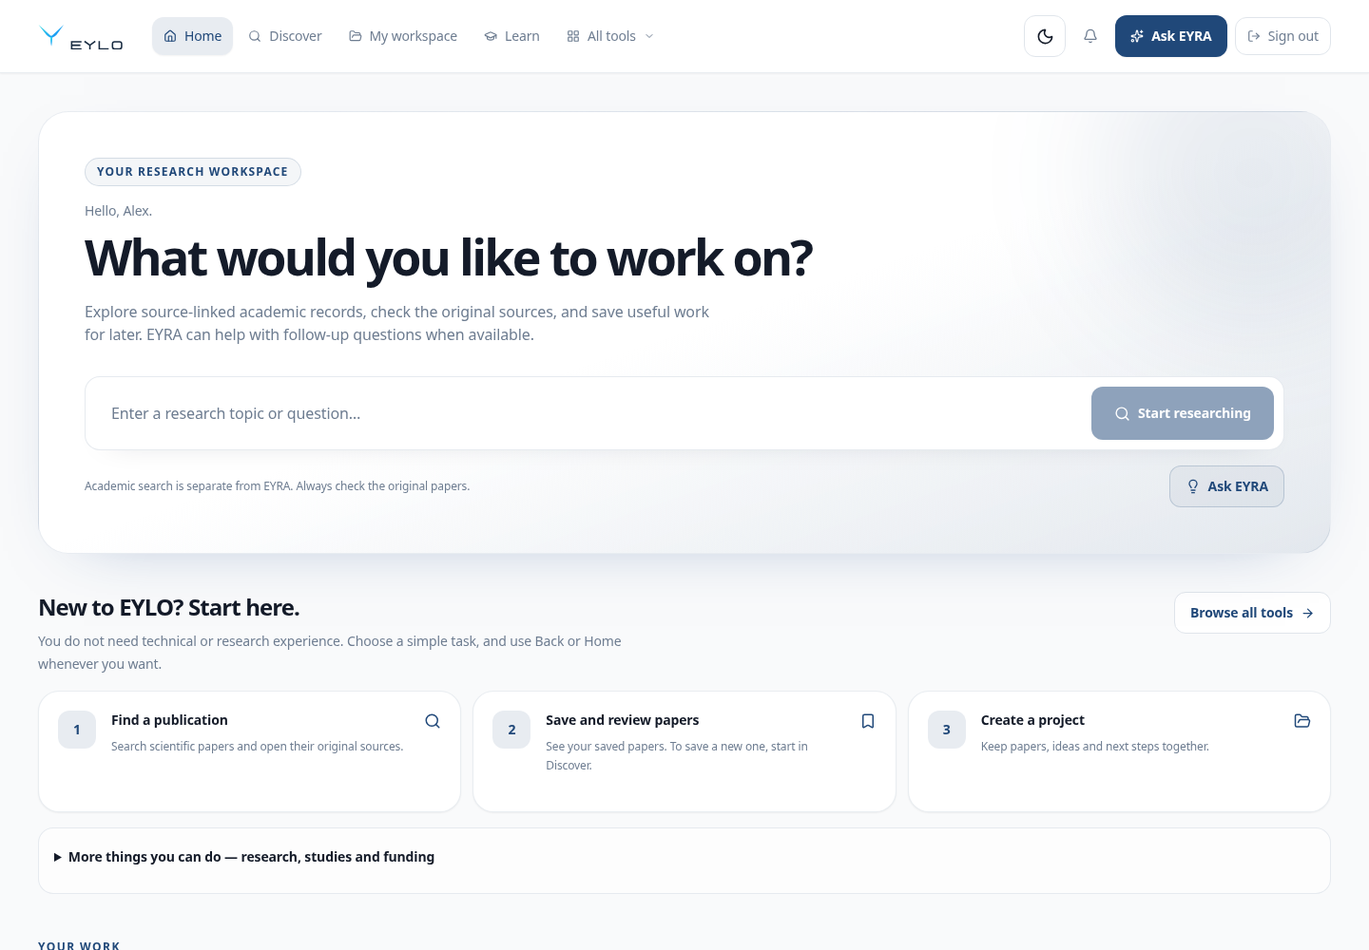
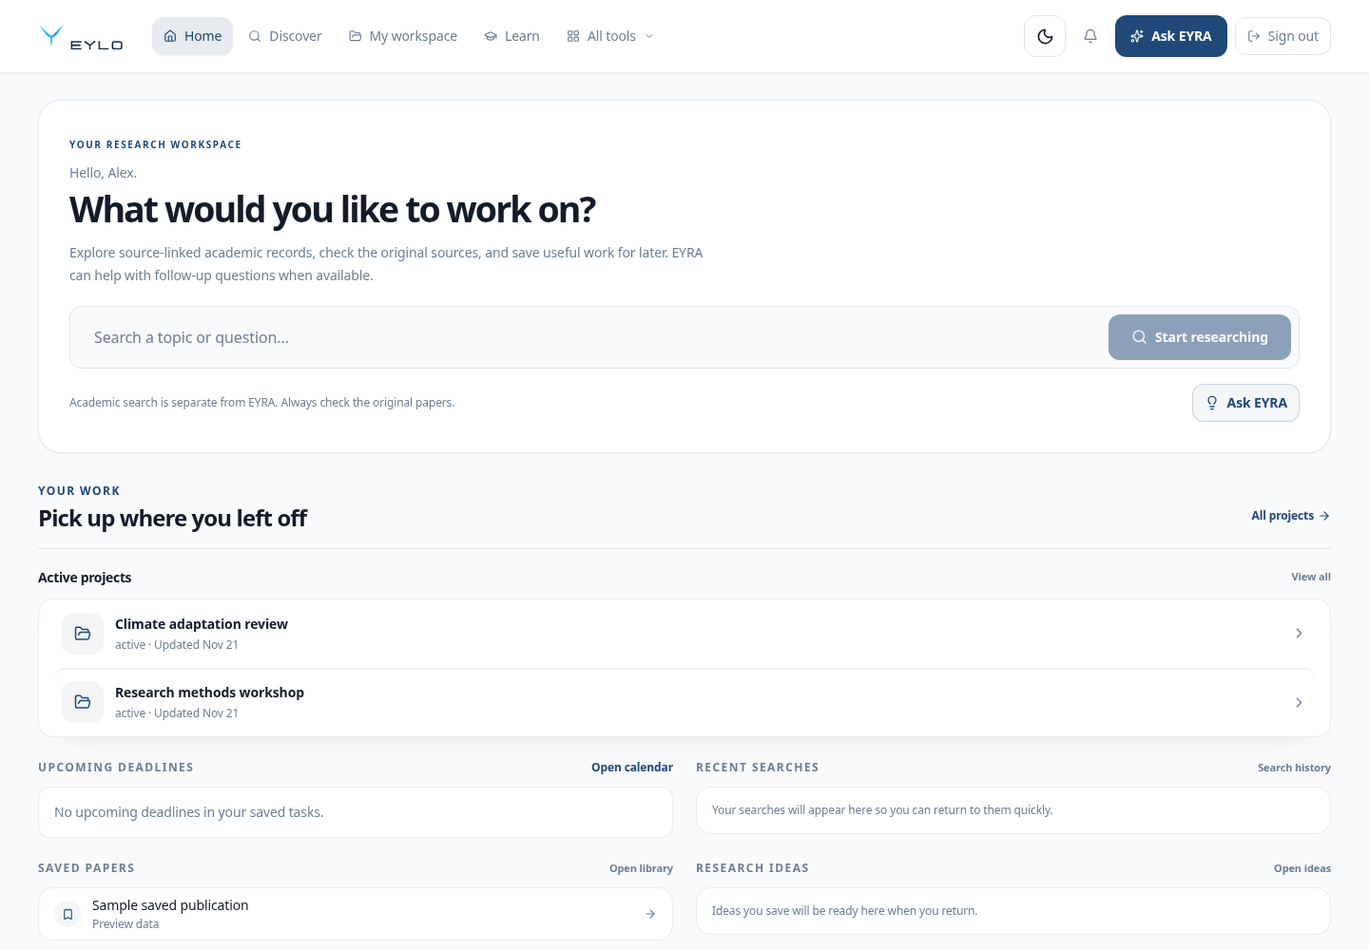
Refine Home hierarchy and simplify EYRA conversation layout

diff --git a/src/components/dashboard/EyraHome.jsx b/src/components/dashboard/EyraHome.jsx
@@ -82,70 +82,29 @@ export default function EyraHome({ onSearch }) {
 
   return (
     <div className="eylo-home min-h-[calc(100vh-4.5rem)] bg-background text-foreground">
-      <div className="mx-auto w-full max-w-[1440px] px-4 pb-24 pt-6 sm:px-8 sm:pt-10 lg:px-10">
-        <section aria-labelledby="home-title" className="relative isolate overflow-hidden rounded-[32px] border border-primary/10 bg-gradient-to-br from-card via-card to-primary/10 p-6 shadow-[0_20px_70px_-48px_rgba(31,71,139,0.5)] sm:p-9 lg:p-12">
-          <div className="pointer-events-none absolute -right-20 -top-24 -z-10 h-80 w-80 rounded-full bg-primary/10 blur-3xl" aria-hidden="true" />
-          <p className="mb-4 inline-flex items-center rounded-full border border-primary/15 bg-primary/5 px-3 py-1.5 text-xs font-bold uppercase tracking-[0.1em] text-primary">Your research workspace</p>
+      <div className="mx-auto w-full max-w-[1440px] px-4 pb-16 pt-5 sm:px-8 sm:pt-7 lg:px-10">
+        <section aria-labelledby="home-title" className="relative isolate overflow-hidden rounded-[24px] border border-border/80 bg-card p-5 shadow-sm sm:p-7 lg:p-8">
+          <p className="mb-3 inline-flex items-center text-[10px] font-bold uppercase tracking-[0.16em] text-primary">Your research workspace</p>
           <p className="text-sm font-medium text-muted-foreground">{greeting.greeting}</p>
-          <h1 id="home-title" className="mt-2 max-w-4xl text-3xl font-bold tracking-tight sm:text-4xl lg:text-[3.25rem] lg:leading-[1.12]">What would you like to work on?</h1>
-          <p className="mt-4 max-w-2xl text-sm leading-7 text-muted-foreground sm:text-base">Explore source-linked academic records, check the original sources, and save useful work for later. EYRA can help with follow-up questions when available.</p>
-          <form onSubmit={event => { event.preventDefault(); if (homeQuery.trim()) onSearch(homeQuery.trim()); }} className="mt-8 flex flex-col gap-3 rounded-2xl border border-border/80 bg-card p-2.5 shadow-md shadow-primary/5 sm:flex-row sm:items-center">
+          <h1 id="home-title" className="mt-1.5 max-w-4xl text-[1.65rem] font-semibold leading-tight tracking-tight sm:text-3xl lg:text-[2.35rem]">What would you like to work on?</h1>
+          <p className="mt-3 max-w-2xl text-sm leading-6 text-muted-foreground">Explore source-linked academic records, check the original sources, and save useful work for later. EYRA can help with follow-up questions when available.</p>
+          <form onSubmit={event => { event.preventDefault(); if (homeQuery.trim()) onSearch(homeQuery.trim()); }} className="mt-5 flex flex-col gap-2 rounded-xl border border-border bg-background p-2 sm:flex-row sm:items-center">
             <label htmlFor="home-research-query" className="sr-only">Research topic or question</label>
             <input id="home-research-query" type="search" value={homeQuery} onChange={event => setHomeQuery(event.target.value)}
-              placeholder="Enter a research topic or question…" className="min-h-14 min-w-0 flex-1 rounded-xl border border-transparent bg-transparent px-4 text-base text-foreground placeholder:text-muted-foreground focus:border-primary/30 focus:outline-none" />
-            <button type="submit" disabled={!homeQuery.trim()} className="inline-flex min-h-14 items-center justify-center gap-2 rounded-xl bg-primary px-6 text-sm font-semibold text-primary-foreground shadow-sm transition-colors hover:bg-primary/90 focus-visible:outline focus-visible:outline-2 focus-visible:outline-offset-2 focus-visible:outline-primary disabled:opacity-50">
+              placeholder="Search a topic or question…" className="min-h-12 min-w-0 flex-1 rounded-lg border border-transparent bg-transparent px-4 text-base text-foreground placeholder:text-muted-foreground focus:border-primary/30 focus:outline-none" />
+            <button type="submit" disabled={!homeQuery.trim()} className="inline-flex min-h-12 items-center justify-center gap-2 rounded-lg bg-primary px-6 text-sm font-semibold text-primary-foreground shadow-sm transition-colors hover:bg-primary/90 focus-visible:outline focus-visible:outline-2 focus-visible:outline-offset-2 focus-visible:outline-primary disabled:opacity-50">
               <Search size={17} aria-hidden="true" /> Start researching
             </button>
           </form>
           <div className="mt-4 flex flex-wrap items-center justify-between gap-4">
             <p className="text-xs text-muted-foreground">Academic search is separate from EYRA. Always check the original papers.</p>
             <button type="button" disabled={!eyraReady} onClick={() => window.dispatchEvent(new Event('eylo:open-eyra'))}
-              className="inline-flex min-h-11 items-center gap-2 rounded-xl border border-primary/20 bg-primary/5 px-4 text-sm font-semibold text-primary transition-colors hover:bg-primary/10 focus-visible:outline focus-visible:outline-2 focus-visible:outline-primary disabled:opacity-50">
+              className="hidden min-h-10 items-center gap-2 rounded-lg border border-primary/20 bg-primary/5 px-3 text-sm font-semibold text-primary transition-colors hover:bg-primary/10 sm:inline-flex focus-visible:outline focus-visible:outline-2 focus-visible:outline-primary disabled:opacity-50">
               <Lightbulb size={16} aria-hidden="true" /> Ask EYRA
             </button>
           </div>
         </section>
-        <section aria-labelledby="start-here-title" className="mt-10">
-          <div className="mb-4 flex flex-wrap items-start justify-between gap-3">
-            <div>
-              <h2 id="start-here-title" className="text-xl font-bold tracking-tight text-foreground sm:text-2xl">New to EYLO? Start here.</h2>
-              <p className="mt-2 max-w-2xl text-sm leading-6 text-muted-foreground">
-                You do not need technical or research experience. Choose a simple task, and use Back or Home whenever you want.
-              </p>
-            </div>
-            <Link to="/tools" className="inline-flex min-h-11 items-center gap-2 rounded-xl border border-border bg-card px-4 text-sm font-semibold text-primary hover:bg-secondary">Browse all tools <ArrowRight size={15} aria-hidden="true" /></Link>
-          </div>
-          <nav aria-label="Common starting actions" className="grid gap-3 sm:grid-cols-2 lg:grid-cols-3">
-            {[
-              {step:'1', title:'Find a publication', help:'Search scientific papers and open their original sources.', href: '/search', Icon:Search},
-              {step:'2', title:'Save and review papers', help:'See your saved papers. To save a new one, start in Discover.', href: '/library', Icon:Bookmark},
-              {step:'3', title:'Create a project', help:'Keep papers, ideas and next steps together.', href: '/projects?new=1', Icon:FolderOpen},
-            ].map(({step,title,help,href,Icon}) => (
-              <Link key={href} to={href} className="group flex min-h-32 items-start gap-4 rounded-[22px] border border-border/70 bg-card p-5 shadow-sm transition-all hover:-translate-y-0.5 hover:border-primary/35 hover:shadow-md focus-visible:outline focus-visible:outline-2 focus-visible:outline-primary">
-                <span className="grid h-10 w-10 shrink-0 place-items-center rounded-xl bg-primary/10 text-sm font-bold text-primary" aria-hidden="true">{step}</span>
-                <span className="min-w-0 flex-1"><span className="block text-sm font-bold text-foreground">{title}</span><span className="mt-2 block text-xs leading-5 text-muted-foreground">{help}</span></span>
-                <Icon size={18} className="mt-0.5 shrink-0 text-primary" aria-hidden="true" />
-              </Link>
-            ))}
-          </nav>
-          <details className="mt-4 rounded-2xl border border-border/80 bg-card/60 px-4 py-3">
-            <summary className="min-h-11 cursor-pointer py-2 text-sm font-semibold text-foreground focus-visible:outline focus-visible:outline-2 focus-visible:outline-primary">More things you can do — research, studies and funding</summary>
-            <nav aria-label="More starting actions" className="mt-3 grid gap-3 border-t border-border pt-4 sm:grid-cols-2">
-              {[
-                {title:'Start a research journey', help:'Follow a question from sources to a review or thesis.', href: '/research-journey', Icon:BookOpen},
-                {title:'Plan my studies', help:'Organize sessions, courses and exams.', href: '/study-planner', Icon:BookOpen},
-                {title:'Find research funding', help:'Browse funding calls and eligibility.', href: '/opportunities', Icon:Zap},
-                {title:'View all tools', help:'See every other feature whenever you need it.', href: '/tools', Icon:Search},
-              ].map(({title,help,href,Icon}) => (
-                <Link key={href} to={href} className="group flex min-h-20 items-start gap-3 rounded-xl border border-border bg-card p-4 hover:border-primary/40 hover:bg-secondary/30">
-                  <Icon size={18} className="mt-0.5 shrink-0 text-primary" aria-hidden="true" />
-                  <span className="min-w-0 flex-1"><span className="block text-sm font-semibold text-foreground">{title}</span><span className="mt-1 block text-xs leading-5 text-muted-foreground">{help}</span></span>
-                  <ArrowRight size={15} className="mt-1 shrink-0 text-muted-foreground" aria-hidden="true" />
-                </Link>
-              ))}
-            </nav>
-          </details>
-        </section>
+
 
         {loaded && workspaceWarnings.length > 0 && (
           <div role="status" className="mt-5 flex flex-wrap items-center justify-between gap-3 rounded-xl border border-border bg-card px-4 py-3 text-sm text-foreground">
@@ -154,12 +113,12 @@ export default function EyraHome({ onSearch }) {
           </div>
         )}
 
-        <div className="mt-12">
+        <div className="mt-7 sm:mt-8">
           <section aria-labelledby="continue-heading">
             <div className="mb-5 flex items-end justify-between gap-4 border-b border-border pb-4">
               <div>
                 <p className="text-xs font-bold uppercase tracking-[0.12em] text-primary">Your work</p>
-                <h2 id="continue-heading" className="mt-1 text-2xl font-bold tracking-tight text-foreground sm:text-3xl">Pick up where you left off</h2>
+                <h2 id="continue-heading" className="mt-1 text-xl font-semibold tracking-tight text-foreground sm:text-2xl">Pick up where you left off</h2>
               </div>
               <Link to="/projects" className="inline-flex min-h-9 items-center gap-1 text-xs font-semibold text-primary hover:underline">All projects <ArrowRight size={14} aria-hidden="true" /></Link>
             </div>
@@ -283,6 +242,48 @@ export default function EyraHome({ onSearch }) {
 
 
         </div>
+
+        <section aria-labelledby="start-here-title" className="mt-9 border-t border-border/70 pt-7">
+          <div className="mb-4 flex flex-wrap items-start justify-between gap-3">
+            <div>
+              <h2 id="start-here-title" className="text-lg font-semibold tracking-tight text-foreground sm:text-xl">New to EYLO? Start here.</h2>
+              <p className="mt-2 max-w-2xl text-sm leading-6 text-muted-foreground">
+                You do not need technical or research experience. Choose a simple task, and use Back or Home whenever you want.
+              </p>
+            </div>
+            <Link to="/tools" className="inline-flex min-h-11 items-center gap-2 rounded-xl border border-border bg-card px-4 text-sm font-semibold text-primary hover:bg-secondary">Browse all tools <ArrowRight size={15} aria-hidden="true" /></Link>
+          </div>
+          <nav aria-label="Common starting actions" className="grid gap-3 sm:grid-cols-2 lg:grid-cols-3">
+            {[
+              {step:'1', title:'Find a publication', help:'Search scientific papers and open their original sources.', href: '/search', Icon:Search},
+              {step:'2', title:'Save and review papers', help:'See your saved papers. To save a new one, start in Discover.', href: '/library', Icon:Bookmark},
+              {step:'3', title:'Create a project', help:'Keep papers, ideas and next steps together.', href: '/projects?new=1', Icon:FolderOpen},
+            ].map(({step,title,help,href,Icon}) => (
+              <Link key={href} to={href} className="group flex min-h-24 items-start gap-3 rounded-2xl border border-border/70 bg-card p-4 shadow-sm transition-all hover:-translate-y-0.5 hover:border-primary/35 hover:shadow-md focus-visible:outline focus-visible:outline-2 focus-visible:outline-primary">
+                <span className="grid h-10 w-10 shrink-0 place-items-center rounded-xl bg-primary/10 text-sm font-bold text-primary" aria-hidden="true">{step}</span>
+                <span className="min-w-0 flex-1"><span className="block text-sm font-bold text-foreground">{title}</span><span className="mt-2 block text-xs leading-5 text-muted-foreground">{help}</span></span>
+                <Icon size={18} className="mt-0.5 shrink-0 text-primary" aria-hidden="true" />
+              </Link>
+            ))}
+          </nav>
+          <details className="mt-4 rounded-2xl border border-border/80 bg-card/60 px-4 py-3">
+            <summary className="min-h-11 cursor-pointer py-2 text-sm font-semibold text-foreground focus-visible:outline focus-visible:outline-2 focus-visible:outline-primary">More things you can do — research, studies and funding</summary>
+            <nav aria-label="More starting actions" className="mt-3 grid gap-3 border-t border-border pt-4 sm:grid-cols-2">
+              {[
+                {title:'Start a research journey', help:'Follow a question from sources to a review or thesis.', href: '/research-journey', Icon:BookOpen},
+                {title:'Plan my studies', help:'Organize sessions, courses and exams.', href: '/study-planner', Icon:BookOpen},
+                {title:'Find research funding', help:'Browse funding calls and eligibility.', href: '/opportunities', Icon:Zap},
+                {title:'View all tools', help:'See every other feature whenever you need it.', href: '/tools', Icon:Search},
+              ].map(({title,help,href,Icon}) => (
+                <Link key={href} to={href} className="group flex min-h-20 items-start gap-3 rounded-xl border border-border bg-card p-4 hover:border-primary/40 hover:bg-secondary/30">
+                  <Icon size={18} className="mt-0.5 shrink-0 text-primary" aria-hidden="true" />
+                  <span className="min-w-0 flex-1"><span className="block text-sm font-semibold text-foreground">{title}</span><span className="mt-1 block text-xs leading-5 text-muted-foreground">{help}</span></span>
+                  <ArrowRight size={15} className="mt-1 shrink-0 text-muted-foreground" aria-hidden="true" />
+                </Link>
+              ))}
+            </nav>
+          </details>
+        </section>
       </div>
     </div>
   );

diff --git a/src/components/eyra/EyraCommandCenter.jsx b/src/components/eyra/EyraCommandCenter.jsx
@@ -869,7 +869,7 @@ The saved record was returned by the server. Check the workspace for the final r
               <span className="hidden rounded-2xl bg-gradient-to-br from-indigo-500/10 via-card to-cyan-400/10 px-2 py-1 ring-1 ring-primary/10 sm:block"><BrandLogo brand="eyra" size="compact" /></span>
               <span className="sm:hidden"><EyraOrb className="h-10 w-10 shadow-sm shadow-primary/20" /></span>
               <div className="min-w-0">
-                <h2 id="eyra-dialog-title" className="text-base font-bold tracking-tight text-foreground sm:text-lg">Your research copilot</h2>
+                <h2 id="eyra-dialog-title" className="truncate text-sm font-semibold tracking-tight text-foreground sm:text-lg">Your research copilot</h2>
                 <p className="mt-0.5 truncate text-[11px] font-medium text-muted-foreground sm:text-xs">
                   {contextStatus === 'ready' ? 'Workspace context available' : contextStatus === 'loading' ? 'Preparing workspace context…' : 'Sources are linked when retrieved'}
                 </p>
@@ -893,17 +893,17 @@ The saved record was returned by the server. Check the workspace for the final r
           <EyraModeSelector activeMode={activeMode} onChange={setActiveMode} disabled={loading} />
 
           {/* Messages */}
-          <div ref={conversationScrollRef} className="relative z-10 min-h-0 flex-1 overflow-y-auto overscroll-contain bg-gradient-to-b from-background via-card/30 to-background px-4 py-6 sm:px-8 sm:py-8" aria-label="EYRA conversation">
+          <div ref={conversationScrollRef} className="relative z-10 min-h-0 flex-1 overflow-y-auto overscroll-contain bg-background px-4 py-5 sm:px-8 sm:py-7" aria-label="EYRA conversation">
             <div className={`mx-auto flex min-h-full w-full max-w-3xl flex-col gap-5 ${messages.length === 1 ? 'justify-center' : ''}`}>
               {messages.map((msg, index) => msg.welcome ? (messages.length === 1 ? (
-                <section key={`${msg.timestamp}-${index}`} aria-label="Start a conversation with EYRA" className="relative mx-auto w-full max-w-[740px] overflow-hidden rounded-[28px] border border-primary/10 bg-gradient-to-br from-card via-card to-primary/5 p-6 shadow-[0_24px_70px_-55px_rgba(67,89,200,0.55)] sm:p-9">
-                  <div className="mb-6 inline-flex h-14 w-14 items-center justify-center rounded-[20px] border border-primary/20 bg-gradient-to-br from-indigo-500/15 via-violet-400/10 to-cyan-400/15 text-2xl font-bold text-primary shadow-md shadow-primary/10" aria-hidden="true">✦</div>
+                <section key={`${msg.timestamp}-${index}`} aria-label="Start a conversation with EYRA" className="relative mx-auto w-full max-w-[740px] px-1 py-3 sm:px-5 sm:py-5">
+                  <div className="mb-4 inline-flex h-10 w-10 items-center justify-center rounded-xl bg-primary/10 text-xl font-bold text-primary" aria-hidden="true">✦</div>
                   <p className="text-[11px] font-bold uppercase tracking-[0.18em] text-primary">EYRA / RESEARCH INTELLIGENCE</p>
-                  <h3 className="mt-3 max-w-2xl text-2xl font-bold leading-snug tracking-tight text-foreground sm:text-3xl">
+                  <h3 className="mt-2 max-w-2xl text-2xl font-semibold leading-snug tracking-tight text-foreground sm:text-3xl">
                     Where should we begin?
                   </h3>
-                  <p className="mt-3 max-w-xl text-[15px] leading-7 text-muted-foreground">
-                    Explore published evidence, evaluate opportunities and develop ideas with clear source boundaries. Ask anything or choose a starting point.
+                  <p className="mt-3 max-w-xl text-sm leading-6 text-muted-foreground sm:text-[15px]">
+                    Work through a question, review your sources, or decide what to do next.
                   </p>
                   {messages.length === 1 && <EyraQuickCommands activeMode={activeMode} onSelect={prompt => void sendMessage(prompt)} disabled={loading} />}
                 </section>
@@ -922,7 +922,7 @@ The saved record was returned by the server. Check the workspace for the final r
           </div>
 
           {/* Composer stays visible; optional controls are accessible on demand. */}
-          <div className="relative z-10 shrink-0 border-t border-border/50 bg-card/90 px-3 pb-[max(0.75rem,env(safe-area-inset-bottom))] pt-3 backdrop-blur-xl sm:px-8 sm:py-5">
+          <div className="relative z-10 shrink-0 border-t border-border/50 bg-card/90 px-3 pb-[max(0.75rem,env(safe-area-inset-bottom))] pt-3 backdrop-blur-xl sm:px-8 sm:py-4">
             <div className="mx-auto w-full max-w-3xl">
               <div className="mb-3 flex flex-wrap items-center justify-between gap-2">
                 <details className="group min-w-0 max-w-full flex-1 rounded-xl border border-border/50 bg-secondary/30 text-xs text-muted-foreground">

diff --git a/src/components/eyra/EyraResearchControls.jsx b/src/components/eyra/EyraResearchControls.jsx
@@ -52,7 +52,7 @@ export function EyraQuickCommands({ onSelect, activeMode = 'research', disabled 
   const relevantIds = EYRA_MODE_STARTER_IDS[activeMode] || EYRA_MODE_STARTER_IDS.research;
   const suggestions = relevantIds.map(id => EYRA_QUICK_COMMANDS.find(command => command.id === id)).filter(Boolean);
   return (
-    <section aria-labelledby="eyra-start-outcome" className="mt-8 sm:mt-9">
+    <section aria-labelledby="eyra-start-outcome" className="mt-6">
       <div className="mb-3 flex flex-wrap items-end justify-between gap-2">
         <h3 id="eyra-start-outcome" className="text-sm font-bold tracking-tight text-foreground">Try a starting point</h3>
         <p className="text-xs text-muted-foreground">Or ask your own question</p>
@@ -64,11 +64,11 @@ export function EyraQuickCommands({ onSelect, activeMode = 'research', disabled 
             <button
               key={command.id} type="button" disabled={disabled}
               onClick={() => onSelect(command.prompt)}
-              className="group flex min-h-24 items-start gap-2.5 rounded-[18px] border border-border/60 bg-background/80 px-3.5 py-3.5 text-left text-[13px] font-semibold leading-5 text-foreground transition-all hover:-translate-y-0.5 hover:border-primary/30 hover:bg-card hover:shadow-md focus-visible:outline focus-visible:outline-2 focus-visible:outline-offset-2 focus-visible:outline-primary disabled:opacity-50 sm:flex-col sm:justify-between"
+              className="group flex min-h-14 items-center gap-2.5 rounded-xl border border-border/70 bg-card px-3.5 py-3 text-left text-[13px] font-medium leading-5 text-foreground transition-colors hover:border-primary/40 hover:bg-secondary/40 focus-visible:outline focus-visible:outline-2 focus-visible:outline-offset-2 focus-visible:outline-primary disabled:opacity-50"
             >
-              <span className="grid h-9 w-9 shrink-0 place-items-center rounded-xl bg-primary/10 text-primary"><Icon size={18} aria-hidden="true" /></span>
+              <span className="grid h-7 w-7 shrink-0 place-items-center rounded-lg bg-primary/10 text-primary"><Icon size={18} aria-hidden="true" /></span>
               <span className="min-w-0 flex-1">{command.label}</span>
-              <ArrowUpRight size={15} className="ml-auto shrink-0 text-muted-foreground group-hover:text-primary sm:hidden" aria-hidden="true" />
+              <ArrowUpRight size={15} className="ml-auto shrink-0 text-muted-foreground group-hover:text-primary" aria-hidden="true" />
             </button>
           );
         })}

diff --git a/src/components/eyra/EyraComposer.jsx b/src/components/eyra/EyraComposer.jsx
@@ -13,7 +13,7 @@ export default function EyraComposer({
 }) {
   const ModeIcon = EYRA_MODE_ICONS[activeMode] || Send;
   return (
-    <div className="rounded-[24px] border border-border/70 bg-background px-3 pb-2.5 pt-3 shadow-[0_18px_60px_-34px_rgba(66,75,156,0.65)] transition-all focus-within:border-primary/40 focus-within:shadow-[0_20px_65px_-35px_rgba(81,87,199,0.7)] focus-within:ring-2 focus-within:ring-primary/10 sm:px-4">
+    <div className="eyra-composer rounded-2xl border border-border bg-background px-3 pb-2.5 pt-3 shadow-sm transition-shadow focus-within:border-primary/50 focus-within:ring-2 focus-within:ring-primary/15 sm:px-4">
       <label htmlFor="eyra-message-input" className="sr-only">Message EYRA</label>
       <textarea
         id="eyra-message-input"

diff --git a/src/index.css b/src/index.css
@@ -536,3 +536,12 @@ body { min-width: 320px; background: hsl(var(--background)); letter-spacing: -0.
 :root.dark .eylo-app-canvas .company-brand {
   content: url("../public/brand/eylo-dark.svg");
 }
+
+
+/* One visible focus ring belongs to the composer, rather than nested rings. */
+.eylo-app-canvas .eyra-composer textarea,
+.eylo-app-canvas .eyra-composer textarea:focus-visible {
+  border: 0;
+  box-shadow: none;
+  outline: none;
+}

diff --git a/docs/FULL_SITE_FUNCTIONAL_AUDIT.md b/docs/FULL_SITE_FUNCTIONAL_AUDIT.md
@@ -309,3 +309,10 @@ Reviewed the current source UI with a local fixture login and sample records at 
 Two visible defects were reproduced and repaired: mobile EYRA opened scrolled to the welcome card's bottom, clipping its title; the dark workspace header rendered the dark-lettering logo intended for light backgrounds. The single welcome state now starts at the top, ongoing conversations still follow their last message, and composer focus avoids scrolling the page. The dark signed-in shell now uses the already supplied light-lettering SVG. Existing palette, navigation and provider behavior are preserved. Full check: 1,208 Node tests plus imports/typecheck/lint/build pass; browser regressions exercise welcome geometry and the dark SVG (including Vite-inlined data URLs). Status: **IMPLEMENTED — UNVERIFIED** for hosted acceptance.
 
 Design recommendations remain review proposals: a more compact returning-user Home with recent work higher, and a persistent context-aware EYRA workspace alongside quick entry. They are not presented as implemented redesigns.
+
+
+### Post-login visual refinement — 2026-11-20
+
+User direction: retain the existing EYLO/EYRA identity and improve it. Home now uses a compact hero and places ongoing projects before onboarding. EYRA uses a simpler welcome area, compact suggestion rows and one composer focus ring. Existing navigation, source checks, permissions and cloud failure states remain in place.
+
+Local Playwright capture covers 1440×1000 and 390×844 in light/dark, with no horizontal overflow or page errors. These are actual source screens after synthetic fixture login, not authenticated production verification. Updated screenshots and observations are in `docs/integration/screenshots/post-login-design-2026-11-20/` and `docs/integration/post-login-design-review-2026-11-20.json`. Hosted EYRA persistence acceptance remains blocked by the previously recorded missing production schema; this visual change does not resolve that dependency.
